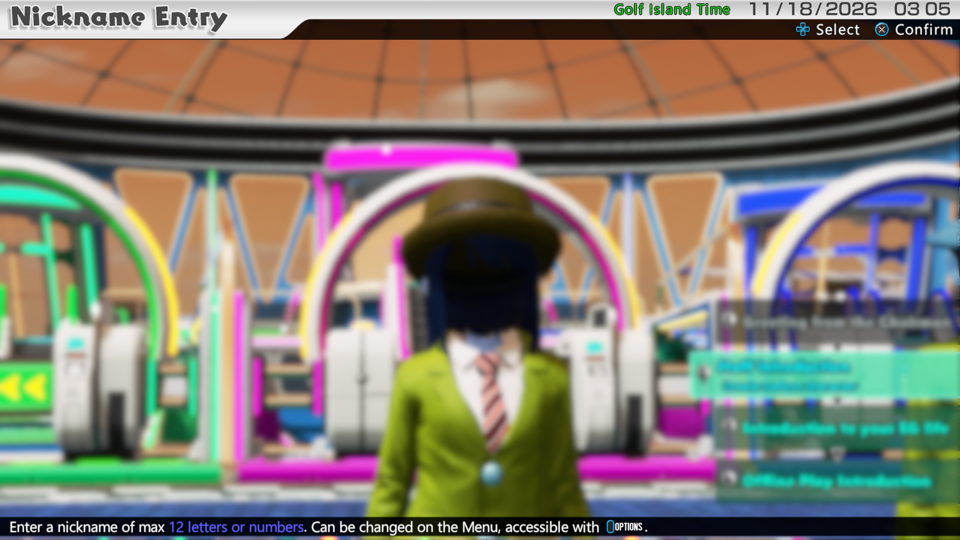
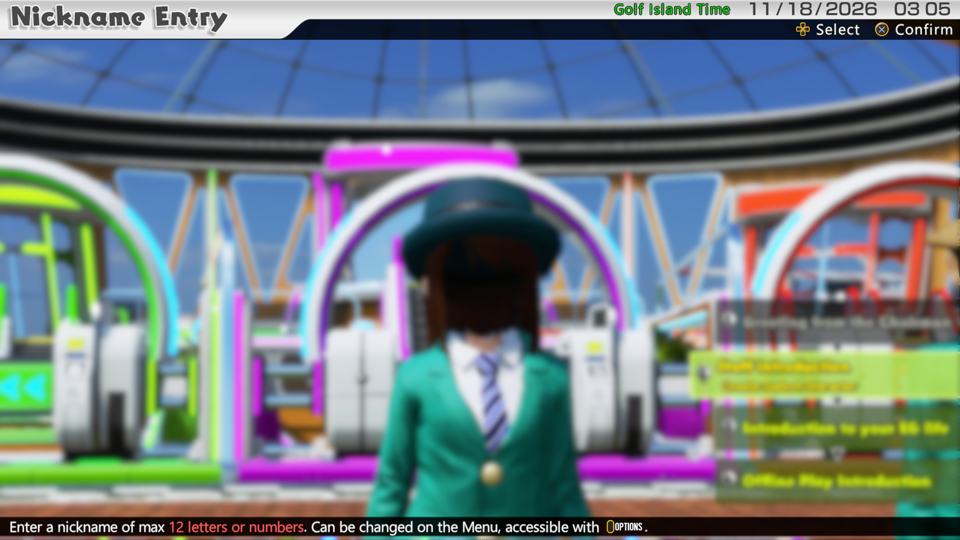
Screenshots had red and blue swapped: re-save all media, correct the color notes
The frame dump is BGRA; the conversion scripts read it as RGBA. The game's colors
were right all along. Blue skin, teal grass and orange sky are removed from the
open faults.

diff --git a/docs/STATE.md b/docs/STATE.md
@@ -1,6 +1,6 @@
 # Project state
 
-Status: Building. On 2026-11-18 the game finished the character creator and reached the home island with the walking tutorial. Later that day hole 1 of Eagle City G.C. was finished twice (bogey, then par) and hole 2 was started. Character skin and grass colors are wrong and there is no sound.
+Status: Building. On 2026-11-18 the game finished the character creator and reached the home island with the walking tutorial. Later that day hole 1 of Eagle City G.C. was finished twice (bogey, then par) and hole 2 was started. There is no sound.
 
 ## Goals
 
@@ -50,7 +50,7 @@ Reached, with frames in `docs/media`:
 - 2026-11-18, first completed hole: Eagle City G.C. hole 1 (309 y, par 4) with the readback switch on: fairway, fairway, approach to 6.9 ft ("Nice Approach!", `2026-11-18-eagle-city-nice-approach.png`), one putt short, gimme, "BOGEY" with total score +1 (`2026-11-18-eagle-city-hole-1-holed-out-bogey.png`).
 - 2026-11-18, same hole on the rebuilt default runtime with no environment switches: fairway, "Bunker" (`2026-11-18-default-build-bunker-lie.png`), sand shot to 5.0 ft, putt holed, "PAR", then the scorecard (`2026-11-18-default-build-hole-1-par-scorecard.png`). Cross on the scorecard loaded hole 2 (281 y, par 4, `2026-11-18-default-build-hole-2-tee.png`); the drive went 182.2 y to the fairway (`2026-11-18-default-build-hole-2-drive.png`) and the approach was judged "Rough". The run ended there on the 600 s watchdog.
 
-Gameplay status: the swing, ball flight, lie judgment (fairway, rough, bunker, green), putting, gimme, hole-out, scorecard and the move to the next hole work on screen. "First playable hole" and one completed hole are done; a full round is NOT_RUN. Open faults seen on the course: the sky draws in flat color bands, the hole map is black on hole 1 and drawn in color on hole 2, Eagle City draws teal grass while Green C.C. draws green, and skin is still blue. Auto-Impact was on for the completed holes; a three-press swing through to hole-out is NOT_RUN.
+Gameplay status: the swing, ball flight, lie judgment (fairway, rough, bunker, green), putting, gimme, hole-out, scorecard and the move to the next hole work on screen. "First playable hole" and one completed hole are done; a full round is NOT_RUN. Open fault seen on the course: the hole map is black on hole 1 and drawn in color on hole 2. Auto-Impact was on for the completed holes; a three-press swing through to hole-out is NOT_RUN.
 
 Swing input: `work/test-scripts/shot.py 1.1 1.15` sends Cross, waits 1.1 s, Cross for power, waits 1.15 s, Cross for impact. Pad-file polling adds about 0.1 s of jitter, so impact timing is not repeatable; "Toggle Auto-Impact" (Square on the pre-round screen) is untested.
 
@@ -62,7 +62,7 @@ Test driver: copies of the boot scripts are in `work/test-scripts` (untracked). 
 
 Fixed 2026-11-18, the hang after "Finish editing" (and an intermittent stall during boot): the game rebuilds its compute command buffers in place as soon as `sceGnmDingDong` returns. When the GPU thread was still running the previous buffer, the label releases in it were overwritten and the graphics queue waited forever on a label holding 0. `sceGnmDingDong` now waits up to 2 s for the compute queue to drain (`Liverpool::WaitAsc`). `RESOGUN_TRACE_DINGDONG=1` prints the compute submits and label traffic that showed this.
 
-Open rendering fault: character skin draws blue (Hikari, `2026-11-17-faces-fixed-blue-skin.png`) or white (the creator avatar) instead of a skin tone. Scenery and UI colors are right. Cause not found yet; a red/blue swap and a missing skin color input are both untested guesses. Ruled out on 2026-11-18: direct memory access and linear readbacks (both on, no change) and the `image view type Color1D is incompatible with image type Color2D` fault (a 1024x1 image registered as both types is now recreated; skin unchanged).
+Color correction, 2026-11-18: the "blue skin", teal grass and orange sky recorded earlier were never drawn by the game. The screenshots were wrong. The frame dump (`output_*.raw`) holds the presenter frame in the swapchain format, which is BGRA on this PC, and the conversion scripts read it as RGBA, so every screenshot had red and blue swapped. Read as BGRA the home island shows a blue sky, skin tones and a brick plaza. A frame capture confirmed it from the other side: the game's 16-bit float copy of the final image has natural colors with no channel remapping. All screenshots in `docs/media` were re-saved with red and blue restored, and `step.py`, `burst.py` and `conv.py` now read BGRA. Still open: the creator avatar's skin draws white (`2026-11-17-character-creator.png`); whether that is a fault or the creator's default is NOT_VERIFIED. The sky bands noted on the course have not been re-checked on a corrected frame (NOT_RUN).
 
 Other open items: no sound (the Ngs2 port renders silence), `IT_SET_PREDICATION` is not implemented (warned once), `sceGnmDebugHardwareStatus` is stubbed, `data_EU_18_ENG/sound/bgm/generic_menu.sxd1` and `NMG_OP_71.sxd1` are asked for and absent from the dump.
 

diff --git a/README.md b/README.md
@@ -18,9 +18,9 @@ This is not playable yet. No hole has been played.
 - Character skin draws blue or white instead of skin tones. Scenery and menus have the right colors.
 - There is no sound yet.
 
-![The character creator, drawn by the port. The skin color is wrong (white instead of a skin tone).](docs/media/2026-11-17-character-creator.png)
+![The character creator, drawn by the port. The avatar skin draws white; whether that is a fault is not verified.](docs/media/2026-11-17-character-creator.png)
 
-![The opening event. Faces draw correctly; the skin is blue because of the same color fault.](docs/media/2026-11-17-faces-fixed-blue-skin.png)
+![The opening event, drawn by the port.](docs/media/2026-11-17-faces-fixed.png)
 
 Progress is measured by these steps: prepared image, boot, guest rendering, real menu, first playable hole, representative playthrough. The first four are reached.
 
